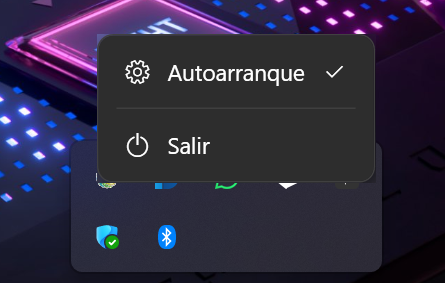
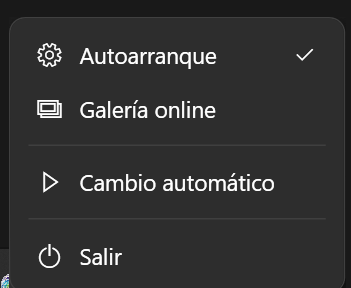
feat: galería online uhdpaper, fix thumbnail corrupto, preview suave
- Corrige ParseResolutionLinks para extraer URLs desde query params
- Agrega IsValidImageHeader en GetCachedThumbPath para detectar caché corrupto
- Mueve decodificación de preview a hilo secundario + fade-in
- Elimina LauncherWindow (obsoleto)
- Agrega onlinegallery.png al README
- Actualiza contextmenu.png

diff --git a/WallFlow/Services/UHDPaperService.cs b/WallFlow/Services/UHDPaperService.cs
@@ -124,6 +124,11 @@ public partial class UHDPaperService : IDisposable
             HtmlNodeCollection links;
             if (resolutions.Count == 0)
             {
+                links = doc.DocumentNode.SelectNodes("//a[contains(@href,'img.uhdpaper.com/img/')]");
+                if (links != null) ParseResolutionLinks(links, resolutions);
+            }
+            if (resolutions.Count == 0)
+            {
                 links = doc.DocumentNode.SelectNodes("//a[contains(@href,'img.uhdpaper.com/wallpaper/')]");
                 if (links != null) ParseResolutionLinks(links, resolutions);
             }
@@ -141,7 +146,9 @@ public partial class UHDPaperService : IDisposable
             // Fallback: try <img> tags
             if (resolutions.Count == 0)
             {
-                var imgs = doc.DocumentNode.SelectNodes("//img[contains(@src,'img.uhdpaper.com/wallpaper/')]");
+                var imgs = doc.DocumentNode.SelectNodes("//img[contains(@src,'img.uhdpaper.com/img/')]");
+                if (imgs == null)
+                    imgs = doc.DocumentNode.SelectNodes("//img[contains(@src,'img.uhdpaper.com/wallpaper/')]");
                 if (imgs == null)
                     imgs = doc.DocumentNode.SelectNodes("//img[contains(@src,'uhdpaper.com') and contains(@src,'.jpg')]");
                 if (imgs == null)
@@ -152,9 +159,31 @@ public partial class UHDPaperService : IDisposable
                     foreach (var img in imgs)
                     {
                         var src = img.GetAttributeValue("src", "");
+                        if (!src.Contains(".jpg", StringComparison.OrdinalIgnoreCase))
+                            continue;
                         var clean = src.StartsWith("//") ? "https:" + src : src;
-                        if (clean.EndsWith(".jpg", StringComparison.OrdinalIgnoreCase) && !clean.Contains("thumb"))
+
+                        if (!clean.Contains("thumb"))
                         {
+                            // Try query-parameter-based detection first
+                            var qIdx = clean.IndexOf('?');
+                            if (qIdx >= 0)
+                            {
+                                var query = clean[(qIdx + 1)..];
+                                var parts = query.Split('&');
+                                foreach (var part in parts)
+                                {
+                                    var eqIdx = part.IndexOf('=');
+                                    if (eqIdx < 0) continue;
+                                    var key = part[..eqIdx];
+                                    var val = part[(eqIdx + 1)..];
+                                    if (key.Equals("url", StringComparison.OrdinalIgnoreCase) || key.Contains("url"))
+                                    {
+                                        clean = val.StartsWith("//") ? "https:" + val : val;
+                                        break;
+                                    }
+                                }
+                            }
                             resolutions["original"] = clean;
                             break;
                         }
@@ -181,12 +210,41 @@ public partial class UHDPaperService : IDisposable
         foreach (var link in links)
         {
             var href = link.GetAttributeValue("href", "");
-            if (!href.EndsWith(".jpg", StringComparison.OrdinalIgnoreCase))
+            if (!href.Contains(".jpg", StringComparison.OrdinalIgnoreCase))
                 continue;
 
             if (href.StartsWith("//"))
                 href = "https:" + href;
 
+            // Try query-parameter-based resolution detection (current uhdpaper format)
+            var qIdx = href.IndexOf('?');
+            if (qIdx >= 0)
+            {
+                var query = href[(qIdx + 1)..];
+                var parts = query.Split('&');
+                foreach (var part in parts)
+                {
+                    var eqIdx = part.IndexOf('=');
+                    if (eqIdx < 0) continue;
+                    var key = part[..eqIdx];
+                    var val = part[(eqIdx + 1)..];
+
+                    foreach (var kv in ResolutionSuffixes)
+                    {
+                        if (key.Equals(kv.Value, StringComparison.OrdinalIgnoreCase)
+                            && !resolutions.ContainsKey(kv.Key))
+                        {
+                            var clean = val.StartsWith("//") ? "https:" + val : val;
+                            resolutions[kv.Key] = clean;
+                            break;
+                        }
+                    }
+                }
+                if (resolutions.Count > 0)
+                    continue;
+            }
+
+            // Fallback: match suffix in path (old format)
             foreach (var kv in ResolutionSuffixes)
             {
                 var suffix = $"-{kv.Value}.";
@@ -204,7 +262,28 @@ public partial class UHDPaperService : IDisposable
     public string GetCachedThumbPath(string slug)
     {
         var path = Path.Combine(_cacheDir, slug + ".jpg");
-        return File.Exists(path) ? path : "";
+        if (!File.Exists(path)) return "";
+        try
+        {
+            var header = new byte[4];
+            using var fs = new FileStream(path, FileMode.Open, FileAccess.Read);
+            if (fs.Read(header, 0, 4) == 4 && IsValidImageHeader(header))
+                return path;
+        }
+        catch { }
+        try { File.Delete(path); } catch { }
+        return "";
+    }
+
+    private static bool IsValidImageHeader(byte[] header)
+    {
+        if (header.Length < 3) return false;
+        if (header[0] == 0xFF && header[1] == 0xD8 && header[2] == 0xFF) return true;
+        if (header[0] == 0x89 && header[1] == 0x50 && header[2] == 0x4E && header[3] == 0x47) return true;
+        if (header[0] == 0x47 && header[1] == 0x49 && header[2] == 0x46 && header[3] == 0x38) return true;
+        if (header[0] == 0x42 && header[1] == 0x4D) return true;
+        if (header[0] == 0x52 && header[1] == 0x49 && header[2] == 0x46 && header[3] == 0x46) return true;
+        return false;
     }
 
     public string GetPreviewCachePath(string slug, string resolution)

diff --git a/WallFlow/Windows/OnlineGalleryWindow.xaml.cs b/WallFlow/Windows/OnlineGalleryWindow.xaml.cs
@@ -819,21 +819,27 @@ public partial class OnlineGalleryWindow : Window
             var key = GetSelectedResolutionKey();
 
             var cachedPreview = _service.GetPreviewCachePath(detail.Slug, key);
-            if (!string.IsNullOrEmpty(cachedPreview) && File.Exists(cachedPreview))
-            {
-                var brush = CreateImageBrush(cachedPreview, 800, 600);
-                PreviewBrush.ImageSource = brush.ImageSource;
-                StatusText.Text = "";
-                return;
-            }
+            var previewPath = !string.IsNullOrEmpty(cachedPreview) && File.Exists(cachedPreview)
+                ? cachedPreview
+                : await _service.DownloadPreviewAsync(previewUrl, detail.Slug, key, GetToken());
 
-            var downloaded = await _service.DownloadPreviewAsync(previewUrl, detail.Slug, key, GetToken());
-            if (!string.IsNullOrEmpty(downloaded) && File.Exists(downloaded))
+            if (!string.IsNullOrEmpty(previewPath) && File.Exists(previewPath))
             {
-                var brush = CreateImageBrush(downloaded, 800, 600);
+                var bytes = await Task.Run(() => File.ReadAllBytes(previewPath));
                 await Dispatcher.BeginInvoke(() =>
                 {
-                    PreviewBrush.ImageSource = brush.ImageSource;
+                    var bitmap = new BitmapImage();
+                    bitmap.BeginInit();
+                    bitmap.StreamSource = new MemoryStream(bytes);
+                    bitmap.DecodePixelWidth = 800;
+                    bitmap.DecodePixelHeight = 600;
+                    bitmap.EndInit();
+                    if (bitmap.CanFreeze) bitmap.Freeze();
+                    PreviewBrush.ImageSource = bitmap;
+                    PreviewBorder.Opacity = 0;
+                    var fadeIn = new DoubleAnimation(0, 1, TimeSpan.FromMilliseconds(200))
+                    { EasingFunction = new CubicEase { EasingMode = EasingMode.EaseOut } };
+                    PreviewBorder.BeginAnimation(Border.OpacityProperty, fadeIn);
                     StatusText.Text = "";
                 });
             }

diff --git a/README.md b/README.md
@@ -61,6 +61,21 @@ Para usar un directorio personalizado, crea un archivo `wallflow.txt` junto al e
   <img src="assets/contextmenu.png" alt="Context Menu" width="600"/>
 </p>
 
+### 🌐 Galería Online
+
+Navega y descarga wallpapers directamente desde [uhdpaper.com](https://www.uhdpaper.com/) sin salir de la app.
+
+<p align="center">
+  <img src="assets/onlinegallery.png" alt="Online Gallery" width="800"/>
+</p>
+
+| | |
+|---|---|
+| 🔍 **Búsqueda** | Busca wallpapers por palabras clave |
+| 📥 **Descarga** | Descarga la resolución que prefieras (4K, 2K, HD) |
+| 💾 **Aplicar** | Aplica wallpapers online directamente al escritorio |
+| 📋 **Copiar URL** | Copia la URL del post o de la imagen al portapapeles |
+
 ---
 
 ## ⌨️ Uso